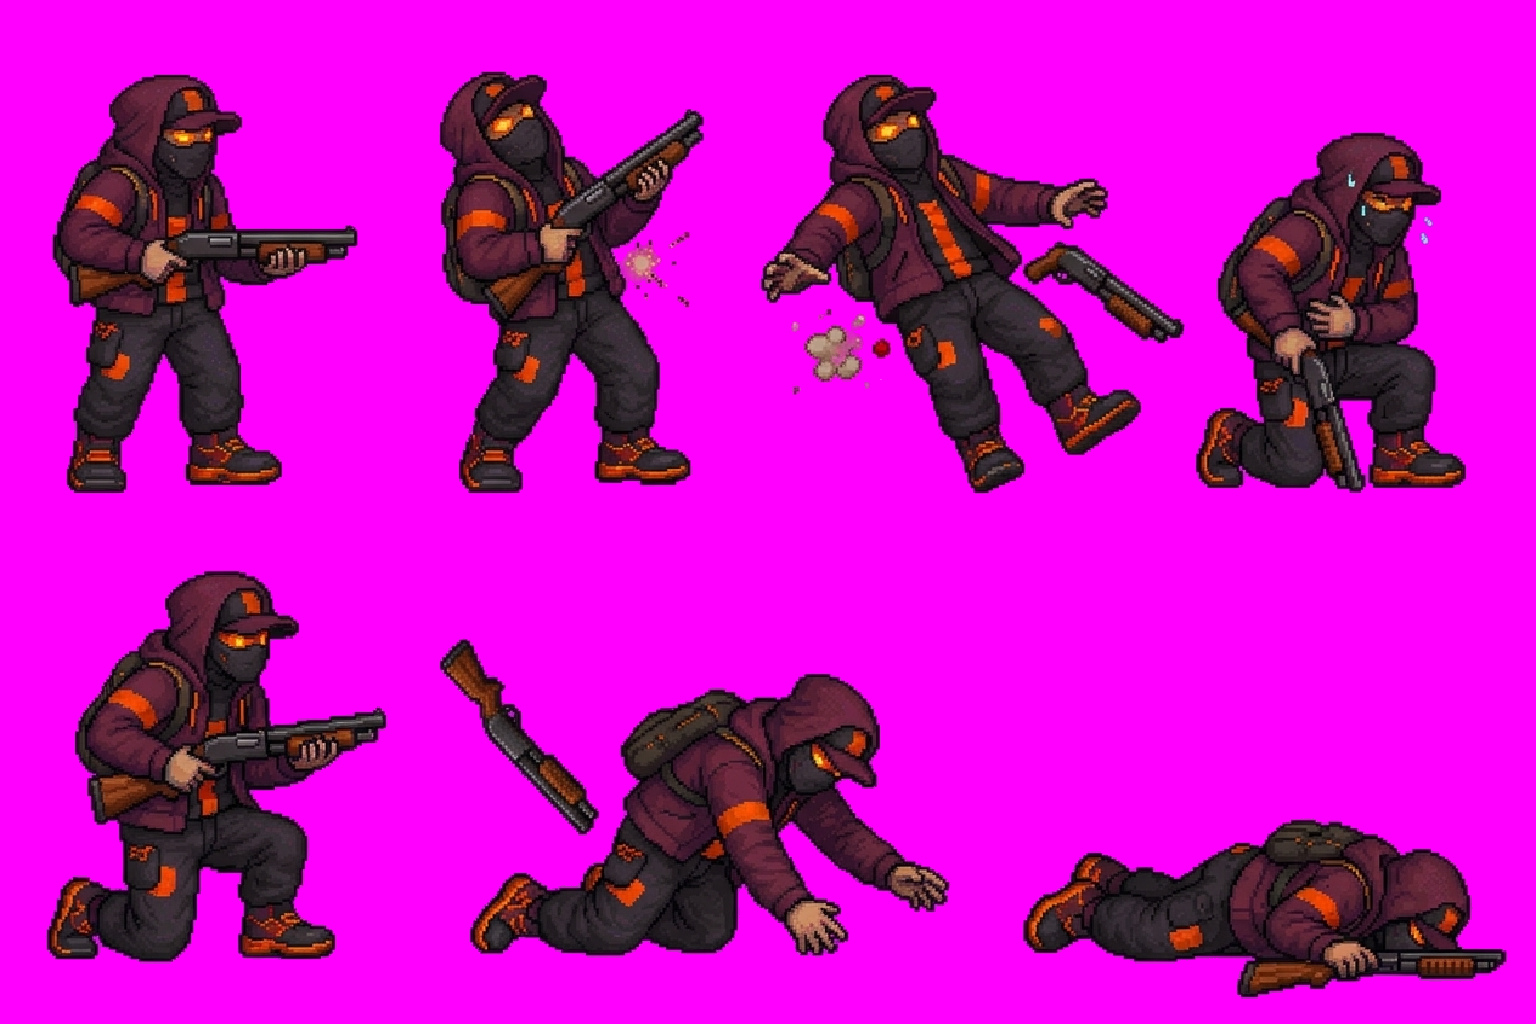
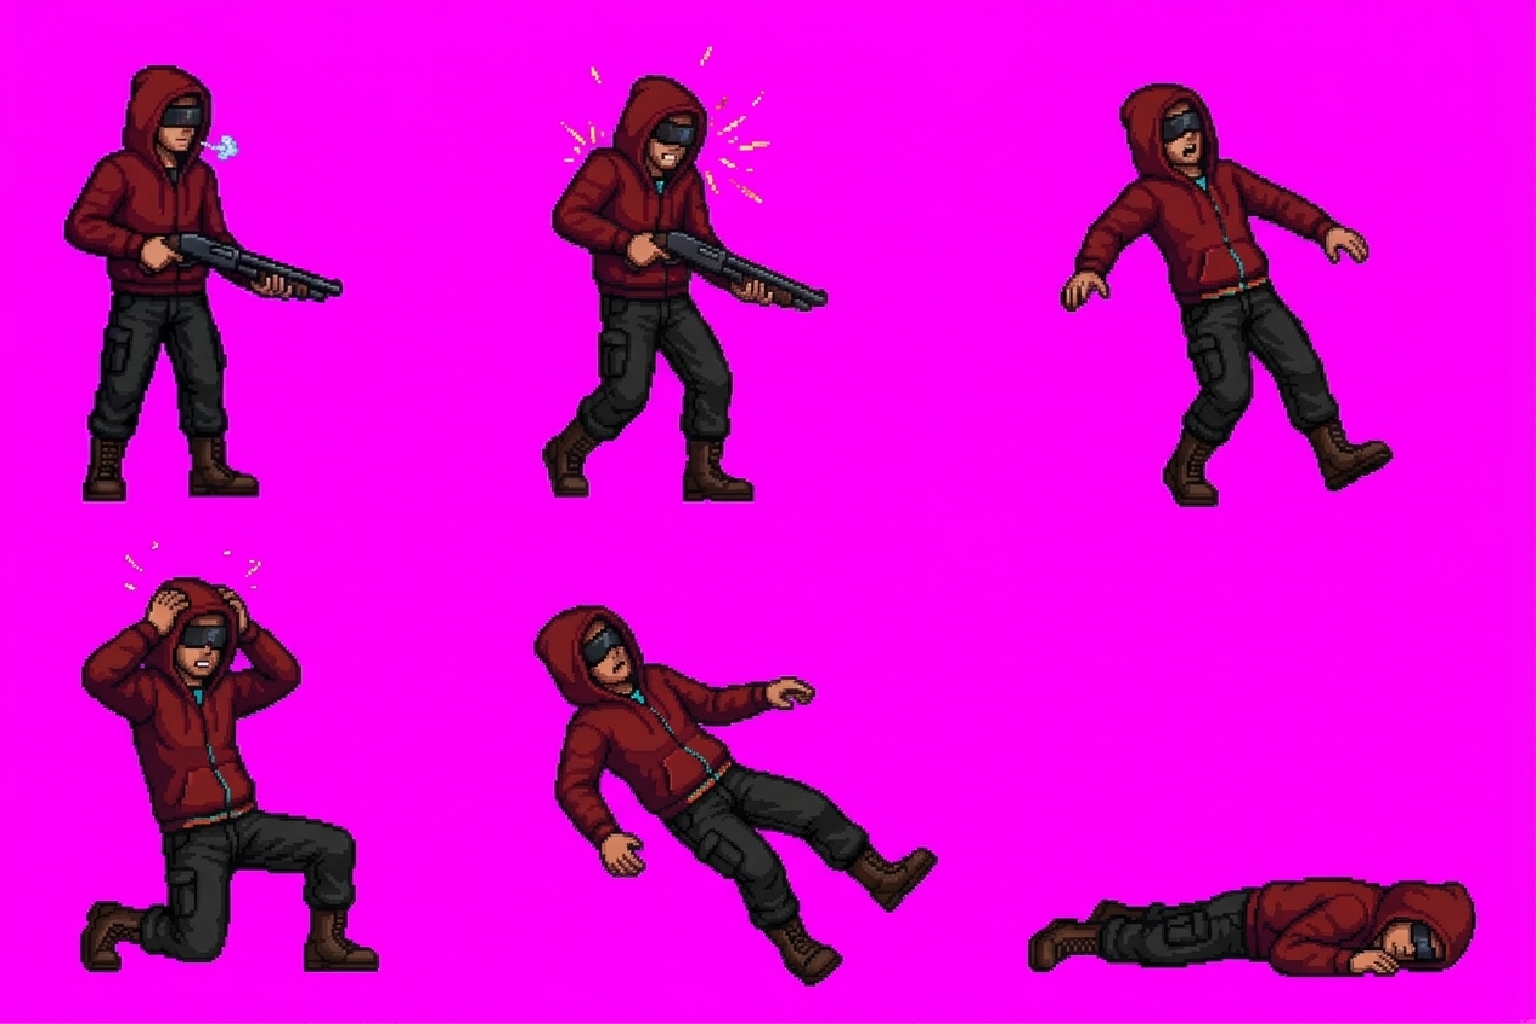
Consegna Argon giro 3: gruppo N, 11 immagini

diff --git a/deliveries/argon-asset-giro2-20261110/N/CONSEGNA.md b/deliveries/argon-asset-giro2-20261110/N/CONSEGNA.md
@@ -26,3 +26,24 @@ In conformità alla regola *"If the image model cannot produce something, do NOT
 - `alien_brute_a.png`, `alien_brute_a_v2.png`, `alien_brute_b.png`, `alien_brute_b_v2.png`
 - `infected_brute_a.png`, `infected_brute_a_v2.png`, `infected_brute_b.png`, `infected_brute_b_v2.png`
 - `port_patrol_a.png`, `port_patrol_a_v2.png`, `port_patrol_b.png`, `port_patrol_b_v2.png`
+
+
+## Aggiornamento Giro 3 — Completamento Gruppo N (11 immagini nuove/rifatte)
+
+Tutte le coppie `_a` e `_b` degli 8 archetipi nemici (`gang_shooter`, `gang_breaker`, `gang_signal`, `gang_brute`, `alien_breaker`, `alien_brute`, `infected_brute`, `port_patrol`) sono ora complete e coerenti per singolo personaggio:
+
+| File | Dimensioni | KB | SHA-256 | Modello | Prompt / Note |
+|---|---|---|---|---|---|
+| `gang_breaker_b.png` | 1536×1024 | 1168.2 KB | `562c031bbce457cf…` | `models/gemini-4-argon (generate_image native image generation tool)` | gang_breaker (_b) rifatto: stesso personaggio di gang_breaker_a.png senza scritte sullo scudo; 6 pose di reazione su fondo #FF00FF. |
+| `gang_shooter_b.png` | 1536×1024 | 931.4 KB | `9cd7c3acf51b47db…` | `models/gemini-4-argon (generate_image native image generation tool)` | gang_shooter (_b) riallineato con gang_shooter_a.png come riferimento: stesso tiratore in giacca rosso scuro col cappuccio, visore e fucile a pompa corto; 6 pose di reazione su fondo #FF00FF. |
+| `gang_brute_b.png` | 1536×1024 | 1291.8 KB | `41638a69130fbd75…` | `models/gemini-4-argon (generate_image native image generation tool)` | gang_brute (_b) con gang_brute_a.png come riferimento: stesso colosso in maschera da saldatore e grembiule di cuoio con mazza a bobina elettrica; pose di reazione e atterramento su fondo #FF00FF. |
+| `alien_breaker_a.png` | 1536×1024 | 1178.2 KB | `59bb9bf5e4e01710…` | `models/gemini-4-argon (generate_image native image generation tool)` | alien_breaker (_a): predatore della breccia basso e corazzato a quattro zampe (scarabeo cornuto, mai umano), guscio viola con giunture ciano; 6 pose d'azione su fondo #FF00FF. |
+| `alien_breaker_b.png` | 1536×1024 | 946.9 KB | `429d7772976321f4…` | `models/gemini-4-argon (generate_image native image generation tool)` | alien_breaker (_b) con alien_breaker_a.png come riferimento: stesso predatore corazzato a quattro zampe in 6 pose di reazione e sconfitta su fondo #FF00FF. |
+| `alien_brute_a.png` | 1536×1024 | 1292.3 KB | `d3bcb25e4153cf0c…` | `models/gemini-4-argon (generate_image native image generation tool)` | alien_brute (_a): predatore alto e curvo con due avambracci enormi a forma d'ancora, testa piccola e nucleo ciano nel petto; 6 pose d'azione su fondo #FF00FF. |
+| `alien_brute_b.png` | 1536×1024 | 993.1 KB | `1a444bb4ea8e82d0…` | `models/gemini-4-argon (generate_image native image generation tool)` | alien_brute (_b) con alien_brute_a.png come riferimento: stesso colosso alieno con avambracci ad ancora in 6 pose di reazione e sconfitta su fondo #FF00FF. |
+| `infected_brute_a.png` | 1536×1024 | 1309.5 KB | `d64921faaf0b52f1…` | `models/gemini-4-argon (generate_image native image generation tool)` | infected_brute (_a): infermiere infetto e gonfio in camice strappato con braccio trasformato in clava di spore verde lime; 6 pose d'azione su fondo #FF00FF. |
+| `infected_brute_b.png` | 1536×1024 | 1252.2 KB | `ee9976a8a16aa2d6…` | `models/gemini-4-argon (generate_image native image generation tool)` | infected_brute (_b) con infected_brute_a.png come riferimento: stesso infermiere infetto con clava di spore in 6 pose di reazione e sconfitta su fondo #FF00FF. |
+| `port_patrol_a.png` | 1536×1024 | 1211.8 KB | `40c1e001aa2e55bf…` | `models/gemini-4-argon (generate_image native image generation tool)` | port_patrol (_a): guardia di manutenzione del porto in cappotto impermeabile grigio-verde col cappuccio, maschera e lunga asta con lampada d'ispezione; 6 pose d'azione su fondo #FF00FF. |
+| `port_patrol_b.png` | 1536×1024 | 950.8 KB | `3cf916b40807af37…` | `models/gemini-4-argon (generate_image native image generation tool)` | port_patrol (_b) con port_patrol_a.png come riferimento: stessa guardia del porto in 6 pose di reazione e sconfitta su fondo #FF00FF. |
+
+Immagini saltate nel Gruppo N (Giro 3): nessuna (tutti gli 8 nemici hanno ora `_a` e `_b` completi).
